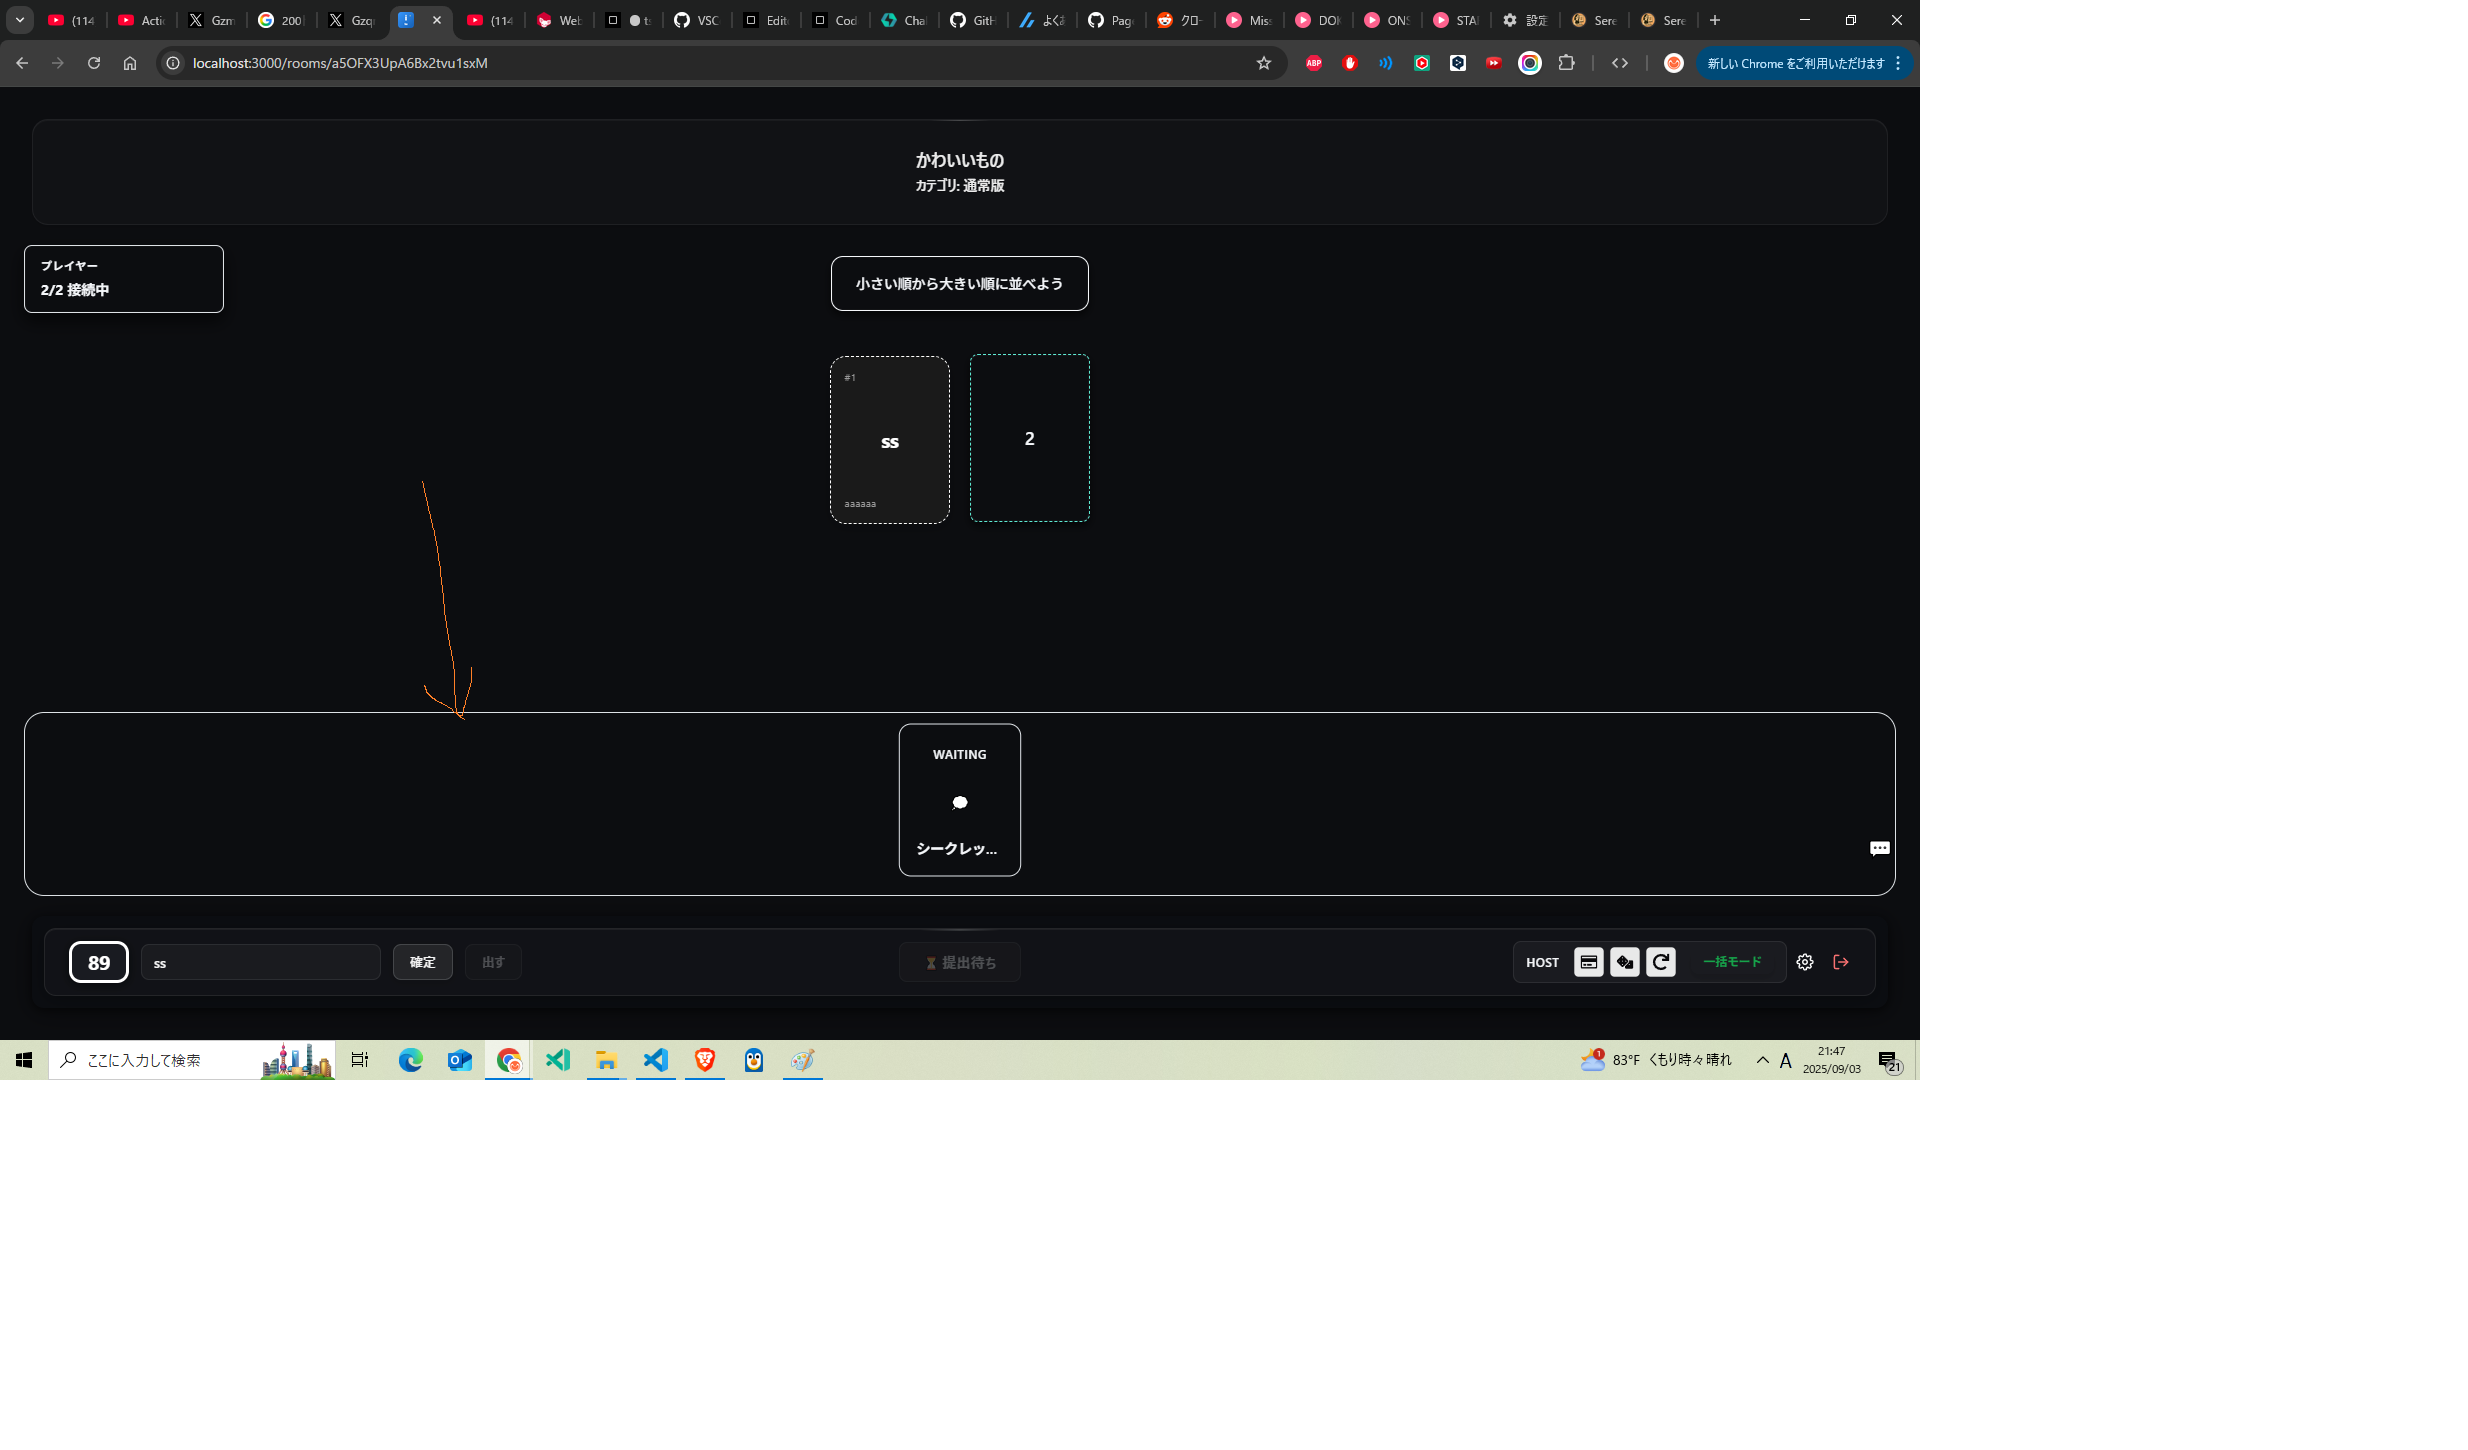
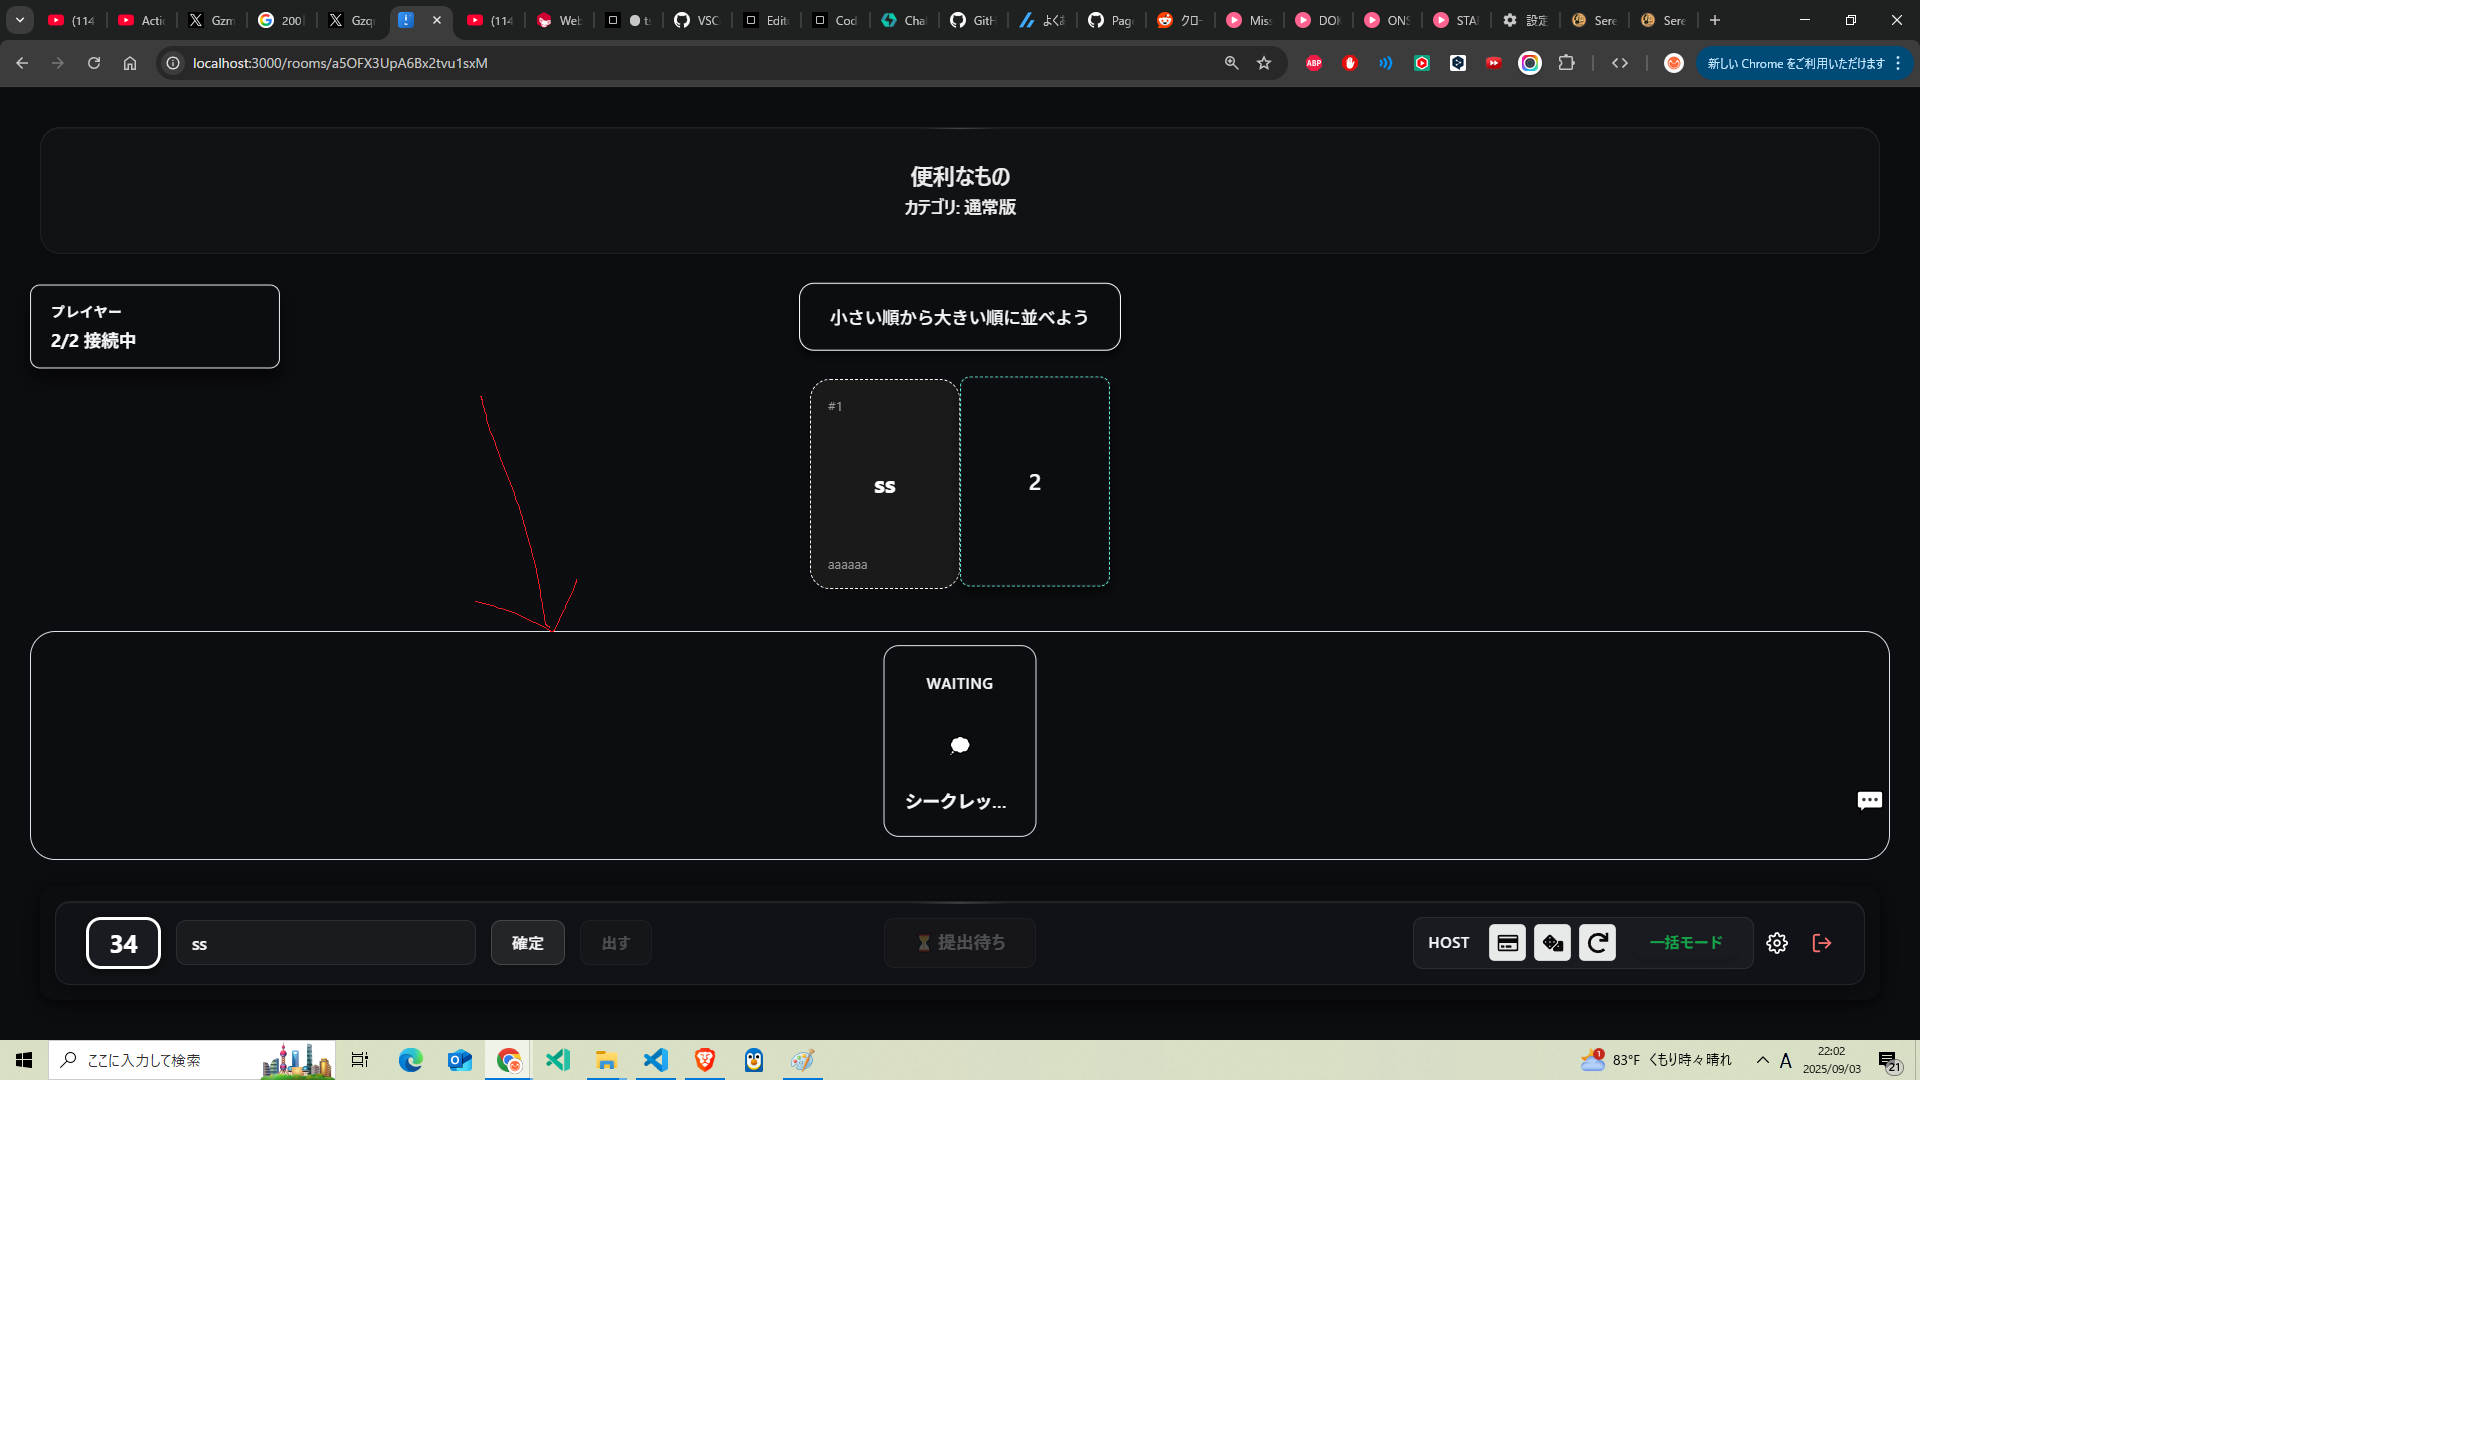
fj５

diff --git a/components/CentralCardBoard.tsx b/components/CentralCardBoard.tsx
@@ -422,7 +422,7 @@ const CentralCardBoard: React.FC<CentralCardBoardProps> = ({
               >
                 <SortableContext items={activeProposal}>
                   {/* Empty slots for placement - optimized for 8+ players */}
-                  {eligibleIds.map((_, idx) => {
+                  {Array.from({ length: Math.max(eligibleIds.length, players.length) }).map((_, idx) => {
                     // Prefer proposal value, but fall back to locally optimistic
                     // `pending` so the UI doesn't temporarily show an empty
                     // slot if `proposal` briefly mutates.
@@ -477,11 +477,9 @@ const CentralCardBoard: React.FC<CentralCardBoardProps> = ({
             ) : (
               <>
                 {/* Static game state: use eligible slots count - optimized */}
-                {eligibleIds
-                  .slice(
-                    0,
-                    Math.min(eligibleIds.length, (orderList?.length || 0) + 1)
-                  )
+                {Array.from({ 
+                  length: Math.max(eligibleIds.length, players.length) 
+                })
                   .map((_, idx) => {
                     // Prefer confirmed orderList entry; fall back to locally pending
                     // placement so the first card appears immediately in the slot

diff --git a/components/ui/GameCard.tsx b/components/ui/GameCard.tsx
@@ -112,7 +112,7 @@ export function GameCard({
             borderRadius="lg"
             border={
               waitingInCentral
-                ? "3px solid #ffffff"
+                ? "none"
                 : state === "default"
                   ? "1.5px dashed"
                   : "1.5px solid"
@@ -201,7 +201,7 @@ export function GameCard({
             borderRadius="lg"
             border={
               waitingInCentral
-                ? "3px solid #ffffff"
+                ? "none"
                 : state === "default"
                   ? "1.5px dashed"
                   : "1.5px solid"
@@ -295,7 +295,7 @@ export function GameCard({
         padding: "0.75rem 0.85rem 0.75rem",
         borderRadius: "12px", // lg相当に統一
         border: waitingInCentral
-          ? "3px solid #ffffff" // Clean white border for waiting cards
+          ? "none" // No border for waiting cards
           : state === "default"
             ? "1.5px dashed #ffffff" // Match empty slots when pending
             : `1.5px solid ${state === "success" ? "#3b82f6" : failColor}`,
